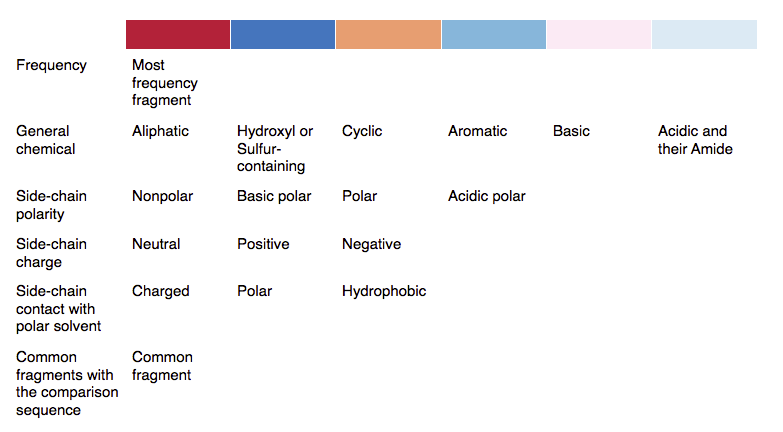
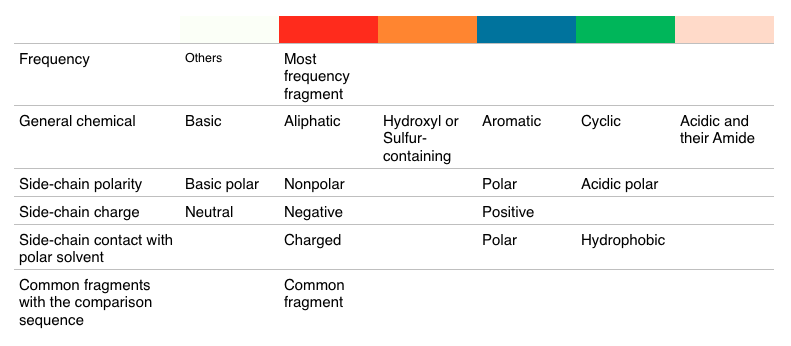
modified:   SPaintWidget.py 	modified:   barcharWidget.py 	modified:   data/color.png 	renamed:    data/color.png -> data/color_old.png 	modified:   qt.py 	modified:   sequenceSet.py

diff --git a/sequenceSet.py b/sequenceSet.py
@@ -83,7 +83,7 @@ class sequenceSet(object):
                 if s =='-':
                     cl.append(color.gray)
                 else:
-                    cl.append(color.black)
+                    cl.append(color.tetrad_red)
             self.__color.append(cl)
 
     def frequencyColor(self):
@@ -103,9 +103,9 @@ class sequenceSet(object):
                         fcolor = color.gray
                     elif self.__sequence[seq_id][frag_id] == self.max_frag_frequency[frag_id][1]:
                         # coloring the largest frequency fragment in the column
-                        fcolor = color.red
+                        fcolor = color.tetrad_red
                     else:
-                        fcolor = color.black
+                        fcolor = color.white
                     self.__color[seq_id].append(fcolor)
                 except IndexError:
                     pass
@@ -120,22 +120,22 @@ class sequenceSet(object):
                         fcolor = color.gray
                     elif self.__sequence[seq_id][frag_id].upper() in ('G','A','V','L','I'):
                         # Aliphatic
-                        fcolor = color.c1
+                        fcolor = color.tetrad_red
                     elif self.__sequence[seq_id][frag_id].upper() in ('S','C','T','M'):
                         # HS
-                        fcolor = color.c2
+                        fcolor = color.tetrad_yellow
                     elif self.__sequence[seq_id][frag_id].upper() in ('P'):
                         # Cyclic
-                        fcolor = color.c3
+                        fcolor = color.tetrad_green
                     elif self.__sequence[seq_id][frag_id].upper() in ('F','W','Y'):
                         # Aromatic
-                        fcolor = color.c4
+                        fcolor = color.tetrad_blue
                     elif self.__sequence[seq_id][frag_id].upper() in ('H','K','R'):
                         # Basic
-                        fcolor = color.c5
+                        fcolor = color.white
                     elif self.__sequence[seq_id][frag_id].upper() in ('D','E','N','Q'):
                         #AA
-                        fcolor = color.c6
+                        fcolor = color.pink
                     else:
                         fcolor = color.black
                     self.__color[seq_id].append(fcolor)
@@ -152,16 +152,16 @@ class sequenceSet(object):
                         fcolor = color.gray
                     elif self.__sequence[seq_id][frag_id].upper() in ('A','C','G','I','L','M','F','P','W','V'):
                         # Nonpolar
-                        fcolor = color.c1
+                        fcolor = color.tetrad_red
                     elif self.__sequence[seq_id][frag_id].upper() in ('R','H','K'):
                         # Basic polar
-                        fcolor = color.c2
+                        fcolor = color.white
                     elif self.__sequence[seq_id][frag_id].upper() in ('N','Q','S','T','Y'):
                         # Polar
-                        fcolor = color.c3
+                        fcolor = color.tetrad_blue
                     elif self.__sequence[seq_id][frag_id].upper() in ('D','E'):
                         # Acidic polar
-                        fcolor = color.c4
+                        fcolor = color.tetrad_green
                     else:
                         fcolor = color.black
                     self.__color[seq_id].append(fcolor)
@@ -178,13 +178,13 @@ class sequenceSet(object):
                         fcolor = color.gray
                     elif self.__sequence[seq_id][frag_id].upper() in ('A','N','C','Q','G','H','I','L','M','F','P','S','T','W','Y','V'):
                         # Neutral
-                        fcolor = color.c1
+                        fcolor = color.white
                     elif self.__sequence[seq_id][frag_id].upper() in ('R','K'):
                         # Positive
-                        fcolor = color.c2
+                        fcolor = color.tetrad_red
                     elif self.__sequence[seq_id][frag_id].upper() in ('D','E'):
                         # Negative
-                        fcolor = color.c3
+                        fcolor = color.tetrad_blue
                     else:
                         fcolor = color.black
                     self.__color[seq_id].append(fcolor)
@@ -201,13 +201,13 @@ class sequenceSet(object):
                         fcolor = color.gray
                     elif self.__sequence[seq_id][frag_id].upper() in ('R','K','D','E'):
                         # Charged
-                        fcolor = color.c1
+                        fcolor = color.tetrad_red
                     elif self.__sequence[seq_id][frag_id].upper() in ('Q','N','H','S','T','Y','C','M','W'):
                         # Polar
-                        fcolor = color.c2
+                        fcolor = color.tetrad_blue
                     elif self.__sequence[seq_id][frag_id].upper() in ('A','I','L','F','V','P','G'):
                         # Hydrophobic
-                        fcolor = color.c3
+                        fcolor = color.tetrad_green
                     else:
                         fcolor = color.black
                     self.__color[seq_id].append(fcolor)
@@ -226,9 +226,9 @@ class sequenceSet(object):
                         fcolor = color.gray
                     elif frag_id in selections.keys():
                         if self.__sequence[seq_id][frag_id] == selections[frag_id]:
-                            fcolor = color.c1
+                            fcolor = color.tetrad_red
                         else:
-                            fcolor = color.black
+                            fcolor = color.white
                     else:
                         fcolor = color.black
                     self.__color[seq_id].append(fcolor)

diff --git a/SPaintWidget.py b/SPaintWidget.py
@@ -22,6 +22,16 @@ class color(object):
     c5 = QtGui.QColor(253, 219, 199)
     c6 = QtGui.QColor(209, 229, 240)
 
+    white = QtGui.QColor(251, 255, 244)
+    tetrad_red = QtGui.QColor(255, 49, 0)
+    tetrad_yellow = QtGui.QColor(255, 135, 0)
+    tetrad_blue = QtGui.QColor(7, 114, 161)
+    tetrad_green = QtGui.QColor(0, 183, 74)
+    pink = QtGui.QColor(253, 219, 199)
+
+
+
+
     @staticmethod
     def  random(not_color):
         """
@@ -142,6 +152,9 @@ class MyPaintWidget(QtGui.QWidget):
                 self.__scrollbar_width,self.__scroll_button_height)
 
         # draw outline of horizontal scroll button
+        # horA
+        pen.setColor(QtCore.Qt.green)
+        painter.setPen(pen)
         painter.drawRect((self.__TIMs_cache_width-self.__scrollabr_button_width_hor*0.5)*self.__scroll_button_position_horA, 0,
                 self.__scrollabr_button_width_hor*0.5,self.__TIMs_cache_height)
         painter.drawPixmap((self.__TIMs_cache_width-self.__scrollabr_button_width_hor*0.5)*self.__scroll_button_position_horA, 0,
@@ -150,6 +163,9 @@ class MyPaintWidget(QtGui.QWidget):
                (self.__TIMs_cache_height-self.__widget_height)*self.__scroll_button_position,
                 self.__scrollabr_button_width_hor*0.5,self.__TIMs_cache_height)
 
+        # horB
+        pen.setColor(QtCore.Qt.blue)
+        painter.setPen(pen)
         painter.drawRect((self.__TIMs_cache_width-self.__scrollabr_button_width_hor*0.5)*self.__scroll_button_position_horB, 0,
                 self.__scrollabr_button_width_hor*0.5,self.__TIMs_cache_height)
         painter.drawPixmap((self.__TIMs_cache_width-self.__scrollabr_button_width_hor*0.5)*self.__scroll_button_position_horB, 0,
@@ -236,7 +252,14 @@ class MyPaintWidget(QtGui.QWidget):
             self.__scroll_button_position_horB = 0.0
         elif self.__scroll_button_position_horB > 1.0:
             self.__scroll_button_position_horB = 1.0
-        self.update()
+        self.repaint()
+
+        rAf = int((self.sequences["max_len_frag"]-self.__horizontal_selection_element_num*0.5)* self.__scroll_button_position_horA)
+        rAt = int((self.sequences["max_len_frag"]-self.__horizontal_selection_element_num*0.5)* self.__scroll_button_position_horA + int(self.__horizontal_selection_element_num*0.5)+1)
+        rBf = int((self.sequences["max_len_frag"]-self.__horizontal_selection_element_num*0.5)* self.__scroll_button_position_horB)
+        rBt = int((self.sequences["max_len_frag"]-self.__horizontal_selection_element_num*0.5)* self.__scroll_button_position_horB + int(self.__horizontal_selection_element_num*0.5)+1)
+        for f in self.__callback["barchar"]:
+            f(rAf,rAt,rBf,rBt,self.on_sequences_id,self.on_frag_id)
 
     def mouseMoveEvent(self,event):
         x,y = event.x(),event.y()
@@ -264,7 +287,8 @@ class MyPaintWidget(QtGui.QWidget):
                 elif self.on_frag_id < 0:
                     self.on_frag_id = 0
                 if self.__callback.has_key("seq_name"):
-                    self.__callback["seq_name"](self.sequenceData[self.on_sequences_id].name)
+                    for f in self.__callback["seq_name"]:
+                        f(self.sequenceData[self.on_sequences_id].name)
             # sequence scrollbar
             elif self.hit =="scr":
                 d =  (y - self.cursor_pre_y) * 1.0 / self.__scrollbar_height
@@ -279,7 +303,8 @@ class MyPaintWidget(QtGui.QWidget):
         rAt = int((self.sequences["max_len_frag"]-self.__horizontal_selection_element_num*0.5)* self.__scroll_button_position_horA + int(self.__horizontal_selection_element_num*0.5)+1)
         rBf = int((self.sequences["max_len_frag"]-self.__horizontal_selection_element_num*0.5)* self.__scroll_button_position_horB)
         rBt = int((self.sequences["max_len_frag"]-self.__horizontal_selection_element_num*0.5)* self.__scroll_button_position_horB + int(self.__horizontal_selection_element_num*0.5)+1)
-        self.__callback["barchar"](rAf,rAt,rBf,rBt,self.on_sequences_id,self.on_frag_id)
+        for f in self.__callback["barchar"]:
+            f(rAf,rAt,rBf,rBt,self.on_sequences_id,self.on_frag_id)
 
 
 
@@ -315,7 +340,23 @@ class MyPaintWidget(QtGui.QWidget):
 
 
     def registerClickCallBack(self, d):
-        self.__callback[d["name"]] = d["func"]
+        """
+            register callback
+            d: {"name":"name", "func":f}
+
+            seq_name: get current sequence name
+                     f(seq_name)
+            frag_name: get current frag_name and id
+                     f(frag_name, id)
+            for seq_name and frag_name you can register more than one
+            callback function
+
+            barchar: using for updating the barchar.
+        """
+        if d["name"] not in self.__callback:
+            self.__callback[d["name"]] = []
+        self.__callback[d["name"]].append(d["func"])
+
     def resizeEvent(self, *args, **kwargs):
         self.__TIMs_redraw = True
 

diff --git a/qt.py b/qt.py
@@ -115,8 +115,8 @@ class MainWindow(QtGui.QMainWindow):
         self.gridlayout.addWidget(self.TIMs, 2, 0, 1, 4)
         self.gridlayout.addWidget(self.barchar, 3, 0, 1, 4)
 
-        self.gridlayout.setColumnStretch(0,20)
-        self.gridlayout.setColumnStretch(1,20)
+        self.gridlayout.setColumnStretch(0,15)
+        self.gridlayout.setColumnStretch(1,15)
         self.gridlayout.setColumnStretch(2,1)
         self.gridlayout.setColumnStretch(3,1)
 
@@ -150,7 +150,7 @@ class MainWindow(QtGui.QMainWindow):
         self.initListWidget()
         self.initTIMs()
         self.initMenus()
-        self.barchar.update_sequences(zip(range(9), "ADGDEDSFE",[0.1, 0.2, 0.3, 0.4, 0.5, 0.6, 0.7, 0.8, 0.9] ))
+        self.barchar.update_sequences(zip(range(9), "ADGDEDSFE",[0.1, 0.2, 0.3, 0.4, 0.5, 0.6, 0.7, 0.8, 0.9] ), 5,4)
         
         self.TIMs.registerClickCallBack({"name":"barchar","func":self.barchar_update})
         
@@ -304,9 +304,8 @@ class MainWindow(QtGui.QMainWindow):
             self.scTIMList.setCurrentRow(int(item[0])-1,QtGui.QItemSelectionModel.Select)
             self.glWidgetSC.show_resi(int(item[0]))
             self.glWidgetD.show_resi(int(item[0]))
-            self.TIMs.move_scroll_to_resi(int(item[0]))
-            self.barchar.update()
 
+        self.TIMs.move_scroll_to_resi(int(l[-1][0]))
 
     def initMenus(self):
         menuBar = self.menuBar()
@@ -509,7 +508,7 @@ class MainWindow(QtGui.QMainWindow):
         Bfre = [self.__sequenceSet.frag_frequency[i][seq[i]]/float(len(self.__sequenceSet)) if seq[i] !='-' else 0.0   for i in Bids]
 
         
-        self.barchar.update_sequences(zip(Aids+Bids, Aresi+Bresi, Afre+Bfre))
+        self.barchar.update_sequences(zip(Aids+Bids, Aresi+Bresi, Afre+Bfre), len(Aids), len(Bids))
 
 app = QtGui.QApplication(sys.argv)
 

diff --git a/barcharWidget.py b/barcharWidget.py
@@ -16,13 +16,15 @@ class barcharWidget(QtGui.QWidget):
 
         self.cal_size()
 
-    def update_sequences(self, data):
+    def update_sequences(self, data, Alen, Blen):
         """
         """
         # (frag_id, frag, barchar_data)
         self.frags = data
+        self.Alen = Alen
+        self.Blen = Blen
         self.cal_size()
-        self.update()
+        self.repaint()
 
     def cal_size(self):
         try:
@@ -58,6 +60,19 @@ class barcharWidget(QtGui.QWidget):
             painter.setBrush(Qt.blue)
             painter.drawRect(x + 0.5*self.per_width - 0.5 *self.barchar_width, y + self.per_height *2.0,
                     self.barchar_width, -self.per_height*self.frags[i][2]*2.0)
+
+        
+        # draw visually cue for different
+        pen = QtGui.QPen()
+        pen.setWidth(3)
+        pen.setColor(Qt.green)
+        painter.setPen(pen)
+        painter.drawLine(0.5 * self.per_width, y + self.per_height *2.0 + 5, self.per_width * self.Alen, y + self.per_height *2.0 + 5)
+        
+        pen.setColor(Qt.blue)
+        painter.setPen(pen)
+        painter.drawLine(self.per_width * (self.Alen+0.5), y + self.per_height *2.0 + 5, 
+                self.per_width * (self.Alen + self.Blen), y + self.per_height *2.0 + 5) 
         painter.end()
 
     def resizeEvent(self, event):
